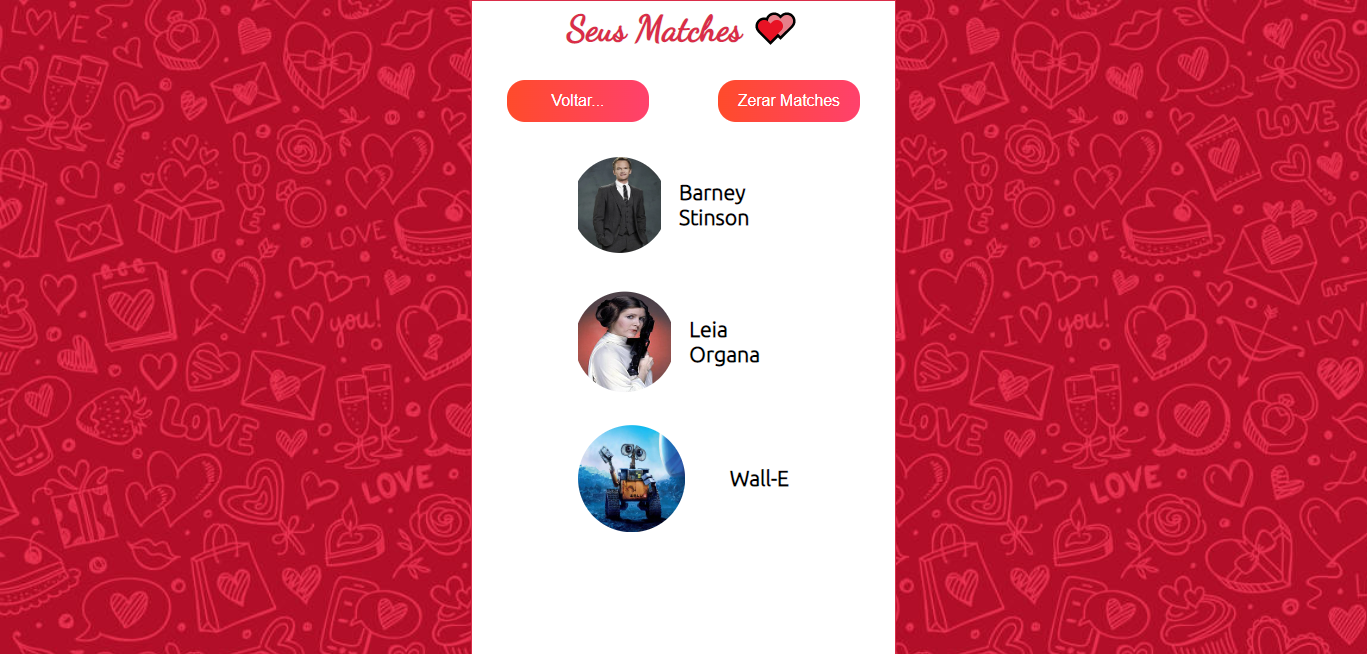
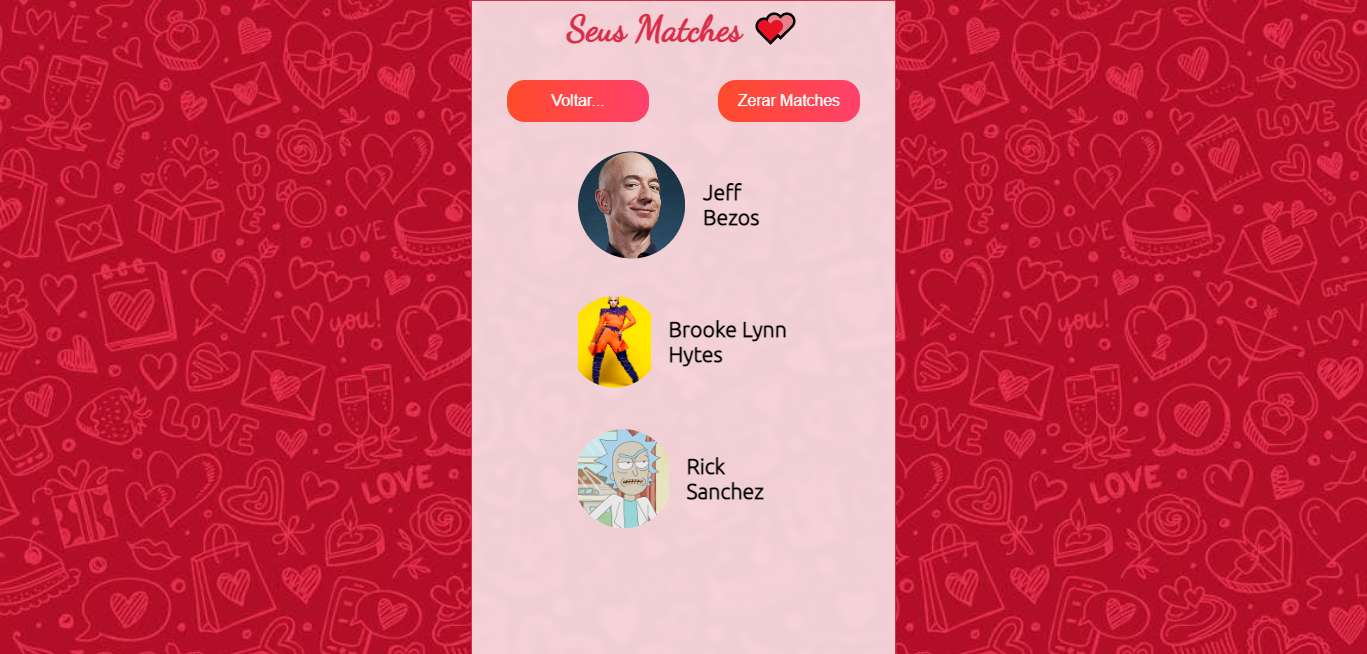
ajustes finais

Changed region(s): [[0.338, 0.0, 0.6759, 1.0]]

diff --git a/modulo3/projeto-astromatch/src/Components/Card.js b/modulo3/projeto-astromatch/src/Components/Card.js
@@ -1,85 +1,141 @@
 import { React, useState, useEffect } from "react";
 import axios from "axios";
-import {CardContainer} from '../style'
+import { CardContainer, BtnZerar } from "../style";
 
 function Card(props) {
+  const [perfil, setPerfil] = useState([]);
+  const [foto, setFoto] = useState(undefined);
+  const [id, setId] = useState(undefined);
 
-    const [perfil, setPerfil] = useState([])
-    const [foto, setFoto] = useState(undefined)
-    const [id, setId] = useState(undefined)
+  const [animacao, setAnimacao] = useState("");
 
-    const [animacao, setAnimacao] = useState('')
-    
-    const aluno = 'bianca-paccola-barros'
+  const aluno = "bianca-paccola-barros";
 
-    useEffect(
-        () => {
-            profileChoose()
-        },[]
-    )
+  useEffect(() => {
+    profileChoose();
+  }, []);
 
-//Request para sortear perfis...
-    function profileChoose ()  {
-        axios.get(`https://us-central1-missao-newton.cloudfunctions.net/astroMatch/${aluno}/person`).then((response) => {
-            if (response.data.profile === null){
-                axios.put(`https://us-central1-missao-newton.cloudfunctions.net/astroMatch/${aluno}/clear`)
-                alert("Atenção: Você visualizou todos os perfis disponíveis no momento!!!")
-            } else {
-            setPerfil(response.data.profile)
-            setFoto(response.data.profile.photo)
-            setId(response.data.profile.id)
-            }
-        }).catch((error) => {
-            console.log(error.data)
-        })
-    }    
+  //Request para sortear perfis...
+  function profileChoose() {
+    axios
+      .get(
+        `https://us-central1-missao-newton.cloudfunctions.net/astroMatch/${aluno}/person`
+      )
+      .then((response) => {
+        if (response.data.profile === null) {
+          axios
+            .put(
+              `https://us-central1-missao-newton.cloudfunctions.net/astroMatch/${aluno}/clear`
+            )
+            .then(() => {
+              alert(
+                "Atenção: Você visualizou todos os perfis disponíveis no momento!!! A lista será reiniciada..."
+              );
+              window.location.reload(false);
+            });
+        } else {
+          setPerfil(response.data.profile);
+          setFoto(response.data.profile.photo);
+          setId(response.data.profile.id);
+          setAnimacao("");
+        }
+      })
+      .catch((error) => {
+        alert("Houve alguem problema ao carregar os perfis :( ... Atualize a página e tente novamente...");
+      });
+  }
 
-//Request para dar like...
-function darLike(){
-    axios.post(`https://us-central1-missao-newton.cloudfunctions.net/astroMatch/${aluno}/choose-person`, {
-        id: id,
-        choice: true
-    }).then(() => {
-        profileChoose ()
-        setAnimacao('like') 
-    }).catch(() => {
-        alert("Algo deu errado :(")
-    })
-}
+  //Request para dar like...
+  function darLike() {
+    axios
+      .post(
+        `https://us-central1-missao-newton.cloudfunctions.net/astroMatch/${aluno}/choose-person`,
+        {
+          id: id,
+          choice: true,
+        }
+      )
+      .then(() => {
+        profileChoose();
+        setAnimacao("like");
+      })
+      .catch(() => {
+        alert("Algo deu errado :(");
+      });
+  }
 
-//Request para dar deslike...
-function darDeslike(){
-    axios.post(`https://us-central1-missao-newton.cloudfunctions.net/astroMatch/${aluno}/choose-person`, {
-        id: id,
-        choice: false
-    }).then(() => {
-        profileChoose ()
-        setAnimacao('deslike') 
-    }).catch(() => {
-        alert("Algo deu errado :(")
-    })
-}
+  //Request para dar deslike...
+  function darDeslike() {
+    axios
+      .post(
+        `https://us-central1-missao-newton.cloudfunctions.net/astroMatch/${aluno}/choose-person`,
+        {
+          id: id,
+          choice: false,
+        }
+      )
+      .then(() => {
+        profileChoose();
+        setAnimacao("deslike");
+      })
+      .catch(() => {
+        alert("Algo deu errado :(");
+      });
+  }
 
-    return (
-        <CardContainer back={foto} animacao={animacao}>
-            <div>
-                <h1>AstroMatch</h1>
-                <a onClick={props.mostraMatches}><svg xmlns="http://www.w3.org/2000/svg" height="48" width="48"><path d="M23.7 23.7q1.3-1.6 1.925-3.3.625-1.7.625-3.95t-.625-3.95Q25 10.8 23.7 9.2q3.8-.85 6.675 1.15t2.875 6.1q0 4.1-2.875 6.1T23.7 23.7ZM34.5 40v-4.7q0-2.55-1.3-4.75t-4.5-3.7q8.65 1.1 11.825 3.2 3.175 2.1 3.175 5.25V40ZM40 25.55v-5h-5v-3h5v-5h3v5h5v3h-5v5Zm-24.25-1.6q-3.3 0-5.4-2.1-2.1-2.1-2.1-5.4 0-3.3 2.1-5.4 2.1-2.1 5.4-2.1 3.3 0 5.4 2.1 2.1 2.1 2.1 5.4 0 3.3-2.1 5.4-2.1 2.1-5.4 2.1ZM0 40v-4.7q0-1.75.925-3.175Q1.85 30.7 3.4 30q3.6-1.6 6.425-2.3 2.825-.7 5.925-.7 3.1 0 5.9.7 2.8.7 6.4 2.3 1.55.7 2.5 2.125t.95 3.175V40Zm15.75-19.05q1.95 0 3.225-1.275Q20.25 18.4 20.25 16.45q0-1.95-1.275-3.225Q17.7 11.95 15.75 11.95q-1.95 0-3.225 1.275Q11.25 14.5 11.25 16.45q0 1.95 1.275 3.225Q13.8 20.95 15.75 20.95ZM3 37h25.5v-1.7q0-.8-.4-1.5t-1.25-1.1Q23.4 31.1 21 30.55 18.6 30 15.75 30t-5.225.55Q8.15 31.1 4.6 32.7q-.75.35-1.175 1.075Q3 34.5 3 35.3Zm12.75-20.55Zm0 20.55Z" /></svg></a>
-            </div>
-                <section>
-                    <span />
-                    <div>
-                        <p>{perfil.name}, {perfil.age}</p>
-                        <p>{perfil.bio}</p>
-                    </div>
-                </section>
-            <section>
-            <svg xmlns="http://www.w3.org/2000/svg" height="48" width="48"><path d="M5 31.6q-1.15 0-2.075-.925Q2 29.75 2 28.6v-4.1q0-.55.125-1.275.125-.725.375-1.275l5.8-13.4q.45-1.05 1.475-1.8Q10.8 6 11.95 6H35.3v25.6L21.4 46l-1.65-1.3q-.55-.4-.725-.9-.175-.5-.175-1.15v-.5L21.1 31.6Zm33.3 0V6H44v25.6Z" onClick={darDeslike}/></svg>
+  //Função para zerar os matches...
+  function reiniciar() {
+    if (window.confirm("Deseja resetar a lista de matches?")) {
+      axios.put(
+        `https://us-central1-missao-newton.cloudfunctions.net/astroMatch/${aluno}/clear`
+      ).then(()=>{
+        window.location.reload(false);
+      }).catch(()=>{
+        alert("Houve algum erro :( ... Atualize a página e tente novamente...")
+      })
+    }
+  }
 
-                <svg xmlns="http://www.w3.org/2000/svg" height="48" width="48"><path d="M36.5 34v-6.5H30v-3h6.5V18h3v6.5H46v3h-6.5V34ZM22 42l-6.35-5.7q-3.6-3.25-6.175-5.8-2.575-2.55-4.25-4.8-1.675-2.25-2.45-4.35Q2 19.25 2 16.95q0-4.7 3.15-7.825T13 6q2.6 0 4.95 1.075T22 10.15q1.7-2 4.05-3.075Q28.4 6 31 6q4.25 0 7.125 2.575T41.7 14.6q-.9-.35-1.8-.525-.9-.175-1.75-.175-5.05 0-8.6 3.525T26 26q0 2.6 1.05 4.925Q28.1 33.25 30 34.9q-.95.85-2.475 2.175Q26 38.4 24.9 39.4Z" onClick={darLike}/></svg>
-            </section>
-        </CardContainer>
-    )
+  return (
+    <>
+      <CardContainer back={foto} animacao={animacao}>
+        <div>
+          <h1>AstroMatch</h1>
+          <button onClick={props.mostraMatches}>
+            <svg xmlns="http://www.w3.org/2000/svg" height="48" width="48">
+              <path d="M23.7 23.7q1.3-1.6 1.925-3.3.625-1.7.625-3.95t-.625-3.95Q25 10.8 23.7 9.2q3.8-.85 6.675 1.15t2.875 6.1q0 4.1-2.875 6.1T23.7 23.7ZM34.5 40v-4.7q0-2.55-1.3-4.75t-4.5-3.7q8.65 1.1 11.825 3.2 3.175 2.1 3.175 5.25V40ZM40 25.55v-5h-5v-3h5v-5h3v5h5v3h-5v5Zm-24.25-1.6q-3.3 0-5.4-2.1-2.1-2.1-2.1-5.4 0-3.3 2.1-5.4 2.1-2.1 5.4-2.1 3.3 0 5.4 2.1 2.1 2.1 2.1 5.4 0 3.3-2.1 5.4-2.1 2.1-5.4 2.1ZM0 40v-4.7q0-1.75.925-3.175Q1.85 30.7 3.4 30q3.6-1.6 6.425-2.3 2.825-.7 5.925-.7 3.1 0 5.9.7 2.8.7 6.4 2.3 1.55.7 2.5 2.125t.95 3.175V40Zm15.75-19.05q1.95 0 3.225-1.275Q20.25 18.4 20.25 16.45q0-1.95-1.275-3.225Q17.7 11.95 15.75 11.95q-1.95 0-3.225 1.275Q11.25 14.5 11.25 16.45q0 1.95 1.275 3.225Q13.8 20.95 15.75 20.95ZM3 37h25.5v-1.7q0-.8-.4-1.5t-1.25-1.1Q23.4 31.1 21 30.55 18.6 30 15.75 30t-5.225.55Q8.15 31.1 4.6 32.7q-.75.35-1.175 1.075Q3 34.5 3 35.3Zm12.75-20.55Zm0 20.55Z" />
+            </svg>
+            <span>{props.quantidadeMatches}</span>
+          </button>
+        </div>
+        <section>
+          <span />
+          <div>
+            <p>
+              {perfil.name}, {perfil.age}
+            </p>
+            <p>{perfil.bio}</p>
+          </div>
+        </section>
+        <section>
+          <svg xmlns="http://www.w3.org/2000/svg" height="48" width="48">
+            <path
+              d="M5 31.6q-1.15 0-2.075-.925Q2 29.75 2 28.6v-4.1q0-.55.125-1.275.125-.725.375-1.275l5.8-13.4q.45-1.05 1.475-1.8Q10.8 6 11.95 6H35.3v25.6L21.4 46l-1.65-1.3q-.55-.4-.725-.9-.175-.5-.175-1.15v-.5L21.1 31.6Zm33.3 0V6H44v25.6Z"
+              onClick={darDeslike}
+            />
+          </svg>
+
+          <svg xmlns="http://www.w3.org/2000/svg" height="48" width="48">
+            <path
+              d="M36.5 34v-6.5H30v-3h6.5V18h3v6.5H46v3h-6.5V34ZM22 42l-6.35-5.7q-3.6-3.25-6.175-5.8-2.575-2.55-4.25-4.8-1.675-2.25-2.45-4.35Q2 19.25 2 16.95q0-4.7 3.15-7.825T13 6q2.6 0 4.95 1.075T22 10.15q1.7-2 4.05-3.075Q28.4 6 31 6q4.25 0 7.125 2.575T41.7 14.6q-.9-.35-1.8-.525-.9-.175-1.75-.175-5.05 0-8.6 3.525T26 26q0 2.6 1.05 4.925Q28.1 33.25 30 34.9q-.95.85-2.475 2.175Q26 38.4 24.9 39.4Z"
+              onClick={darLike}
+            />
+          </svg>
+        </section>
+      </CardContainer>
+      <BtnZerar onClick={reiniciar}>Zerar Matches</BtnZerar>
+    </>
+  );
 }
 
 export default Card;

diff --git a/modulo3/projeto-astromatch/src/style.js b/modulo3/projeto-astromatch/src/style.js
@@ -2,6 +2,7 @@ import styled from "styled-components";
 
 export const CardContainer = styled.section`
     width: 70vh;
+    max-width: 400px;
     min-height: 500px;
     max-height: 550px;
     border: 1px solid #DA2D49;
@@ -26,14 +27,30 @@ export const CardContainer = styled.section`
             padding-right: 33%;
         }
 
-        svg{
-            cursor: pointer;
-            fill: #222222;
+        button{
+            background-color: transparent;
+            border: none;
+            display: flex;
+            align-items: center;
 
-            &:hover{
-                fill: #DA2D49;
+            svg{
+                cursor: pointer;
+                fill: #222222;
+    
+                &:hover{
+                    fill: #DA2D49;
+                }
+            }
+
+            span{
+                background-color: #DA2D49;
+                padding: 4px 7px;
+                border-radius: 50%;
+                margin-left: 3px;
+                color: white;
             }
         }
+
     }
 
     section:nth-child(2){
@@ -128,8 +145,20 @@ export const CardContainer = styled.section`
     }   
 `
 
-
-
+export const BtnZerar = styled.button`
+    position: absolute;
+    right: 1%;
+    bottom: 15px;
+    background: #FF416C;  /* fallback for old browsers */
+    background: -webkit-linear-gradient(to right, #FF4B2B, #FF416C);  /* Chrome 10-25, Safari 5.1-6 */
+    background: linear-gradient(to right, #FF4B2B, #FF416C); /* W3C, IE 10+/ Edge, Firefox 16+, Chrome 26+, Opera 12+, Safari 7+ */
+    width: 120px;
+    padding: 10px 15px;
+    border-radius: 15px;
+    color: white;
+    border: transparent;
+    cursor: pointer;
+`
 
 export const MatcheContainer = styled.div`
     display: flex;
@@ -139,7 +168,8 @@ export const MatcheContainer = styled.div`
     min-height: 550px;
     border: 1px solid black;
     align-items: center;
-    background-color: white;
+    background-color: rgba(255, 255, 255, 0.8);
+    backdrop-filter: blur(3px);
     border: 1px solid #DA2D49;
 
     h1{

diff --git a/modulo3/projeto-astromatch/src/Components/Matches.js b/modulo3/projeto-astromatch/src/Components/Matches.js
@@ -4,24 +4,24 @@ import { MatcheContainer, Aviso } from "../style";
 
 function Matches (props) {
     
-    const [listaMatches, setlistaMatches] = useState([])
+    const [listaMatches, setlistaMatches] = useState(['carregando'])
     
     const aluno = 'bianca-paccola-barros'
     function getMatches () {
         axios.get(`https://us-central1-missao-newton.cloudfunctions.net/astroMatch/${aluno}/matches`).then((response) => {
-            return setlistaMatches(response.data.matches)
+            setlistaMatches(response.data.matches)
         }).catch((error) => {
-            return alert('Erro ao carregar lista')
+            alert('Erro ao carregar lista')
         })
     }
     
     useEffect(() => {
             getMatches()
-        },[]
+        },
     )
     const lista = listaMatches.map((perfil) => {
         return (
-            <ul> 
+            <ul key={perfil.id}> 
                 <li>
                 <img src={perfil.photo} alt={perfil.photo_alt}></img>
                 <p>{perfil.name}</p>
@@ -46,6 +46,7 @@ function Matches (props) {
                     <button onClick={props.voltar}>Voltar...</button>
                     <button onClick={zerarMatches}>Zerar Matches</button>
                 </div>
+                    {listaMatches.includes('carregando') && <Aviso>Carregando...</Aviso>}
                     {listaMatches.length > 0 && lista}
                     {listaMatches.length === 0 && <Aviso>Você ainda não possui matches!!! 😥 <br />
                         Continue avaliando os perfis...</Aviso>}

diff --git a/modulo3/projeto-astromatch/src/App.js b/modulo3/projeto-astromatch/src/App.js
@@ -1,4 +1,5 @@
-import React, { useState } from 'react';
+import React, { useEffect, useState } from 'react';
+import axios from "axios";
 import GlobalStyle from './globalStyles'
 import Card from './Components/Card';
 import Matches from './Components/Matches'
@@ -6,7 +7,25 @@ import Matches from './Components/Matches'
 function App() {
   let conteudo;
   const [boolean, setBoolean] = useState(false)
+  const [qtdeMatches, setQtdeMatches] = useState([])
+  const [contador, setContador] = useState(qtdeMatches.length)
 
+//Função callback que pega informação passada do filho para o pai para compartilhar com outro componente
+function matches () {
+  const aluno = 'bianca-paccola-barros'
+  axios.get(`https://us-central1-missao-newton.cloudfunctions.net/astroMatch/${aluno}/matches`).then((response) => {
+    setQtdeMatches(response.data.matches)
+    setContador(qtdeMatches.length)
+}).catch(() => {
+    setQtdeMatches([])
+})
+}
+
+useEffect(()=>{
+  matches()
+})
+
+//Renderização condicional
   function mostraMatches () {
     setBoolean(!boolean)
   }
@@ -18,6 +37,7 @@ function App() {
   } else {
     conteudo = <Card
       mostraMatches = {mostraMatches}
+      quantidadeMatches={contador}
     />
   }
 

diff --git a/modulo3/projeto-astromatch/src/index.js b/modulo3/projeto-astromatch/src/index.js
@@ -1,7 +1,6 @@
 import React from 'react';
 import ReactDOM from 'react-dom/client';
 import App from './App';
-import reportWebVitals from './reportWebVitals';
 
 const root = ReactDOM.createRoot(document.getElementById('root'));
 root.render(
@@ -9,8 +8,3 @@ root.render(
     <App />
   </React.StrictMode>
 );
-
-// If you want to start measuring performance in your app, pass a function
-// to log results (for example: reportWebVitals(console.log))
-// or send to an analytics endpoint. Learn more: https://bit.ly/CRA-vitals
-reportWebVitals();

diff --git a/modulo3/projeto-astromatch/src/globalStyles.js b/modulo3/projeto-astromatch/src/globalStyles.js
@@ -13,6 +13,7 @@ const GlobalStyle = createGlobalStyle`
         justify-content: center;
         align-items: center;
         min-height: 100vh;
+        width: 100%;
         background-image: url(${Background});
         font-family: 'Ubuntu', sans-serif;
     }
